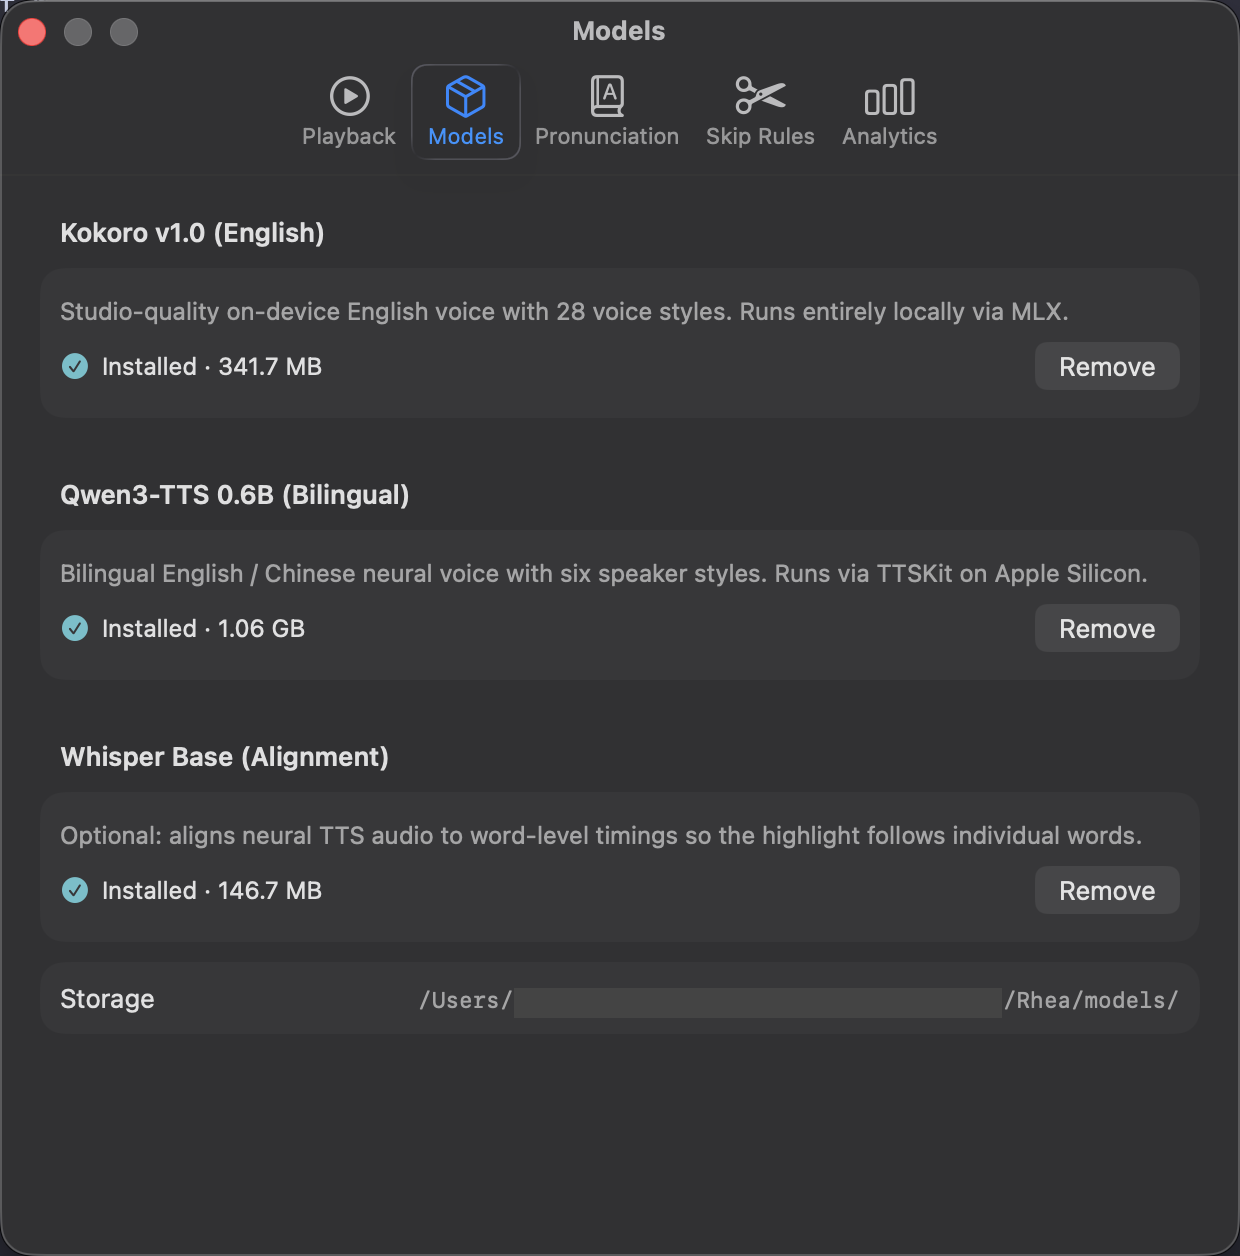
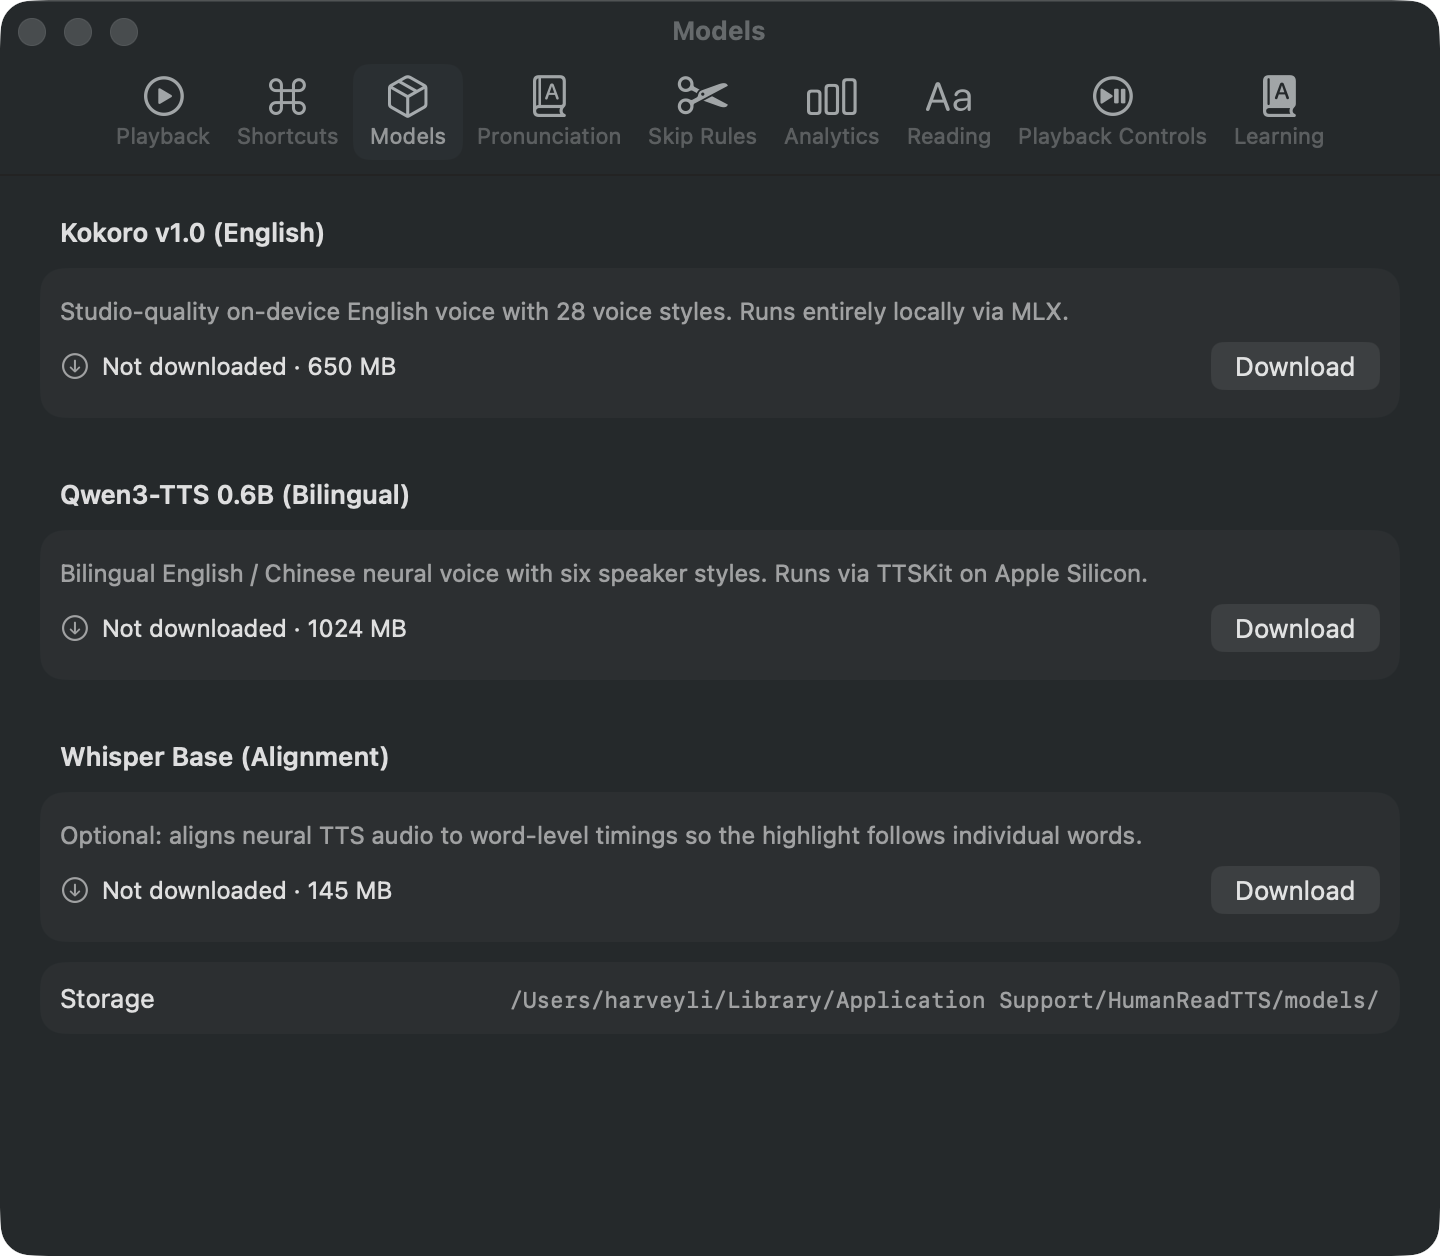
docs: replace the capture slots with real screenshots
Screenshots taken from a local build of the v0.7.2 tag, so they show the
current name and the full nine-tab settings surface. Seventeen figures in
the manual and five on the landing page; the previous assets were from
April, showed the pre-rename name, six settings tabs, and in one case the
read-screenshot item that f4c914b deleted.

Corrects the install step. The DMG contains only the app, with no
Applications symlink, so "drag it onto the Applications folder shown next
to it" described something that is not there. Adding the symlink in
Scripts/package.sh would make the shorter instruction true and is worth
doing separately.

Four slots stay open: the Gatekeeper first-launch dialog (one-time, and
already consumed on this machine), the translation popover, the menu-bar
dropdown, and image OCR. The OCR capture worked but recognised the
monospace sample badly enough to misrepresent the feature, so it is left
out until there is a realistic scanned page to use.

Captures used a fresh app.humanreadtts.mac defaults domain, so the
document list shows only neutral sample files.

diff --git a/docs/manual/index.html b/docs/manual/index.html
@@ -429,17 +429,17 @@
       <div class="step">
         <div class="step-num">2</div>
         <div class="step-body">
-          <div class="step-title">Open it and drag the app across</div>
+          <div class="step-title">Open it and move the app to Applications</div>
           <p>
             Double-click the downloaded <code>.dmg</code> file. A window opens
-            showing the HumanReadTTS icon next to a shortcut to your Applications
-            folder. Drag the icon onto that folder.
+            containing the HumanReadTTS app. Drag it into your
+            <strong>Applications</strong> folder — open a second Finder window
+            and drag it across, or drag it onto Applications in the Finder
+            sidebar.
           </p>
-          <div class="shot-todo">
-            <strong>Screenshot to add</strong>
-            The opened disk image window, showing the HumanReadTTS icon on the
-            left and the Applications folder shortcut on the right, with an
-            arrow between them. Capture at the default window size.
+          <div class="screenshot shot-panel">
+            <img src="assets/install-dmg.png" alt="The mounted disk image window in Finder, containing a single item: the HumanReadTTS application.">
+            <div class="caption">The disk image contains just the app. Drag it to your Applications folder.</div>
           </div>
         </div>
       </div>
@@ -504,11 +504,14 @@
       control you need while listening.
     </p>
 
-    <div class="shot-todo">
-      <strong>Screenshot to add</strong>
-      The full main window with a PDF open: document list on the left, document
-      in the middle, playback bar at the bottom. Use a neutral sample document,
-      not a personal file, because the document list shows file names.
+    <div class="screenshot shot-panel">
+      <img src="assets/welcome-tour.png" alt="The welcome tour window, headed Welcome to HumanReadTTS, listing three points: fully on-device, bilingual English and Chinese, and audiobook export.">
+      <div class="caption">The welcome tour on first launch. Click Skip at any point, or Get Started to step through it.</div>
+    </div>
+
+    <div class="screenshot shot-wide">
+      <img src="assets/main-window.png" alt="The main window with a PDF open: the document list on the left, the document in the middle, and the playback bar along the bottom.">
+      <div class="caption">The main window. Documents you have opened are listed on the left, the current one fills the middle, and the playback bar sits along the bottom.</div>
     </div>
 
     <div class="callout info">
@@ -611,11 +614,9 @@
       <strong>Read from here to end</strong>.
     </p>
 
-    <div class="shot-todo">
-      <strong>Screenshot to add</strong>
-      A paragraph mid-read, showing the amber sentence highlight with the
-      brighter word highlight inside it. Crop to a few lines of text so the two
-      highlight levels are clearly visible.
+    <div class="screenshot shot-wide">
+      <img src="assets/highlight-playing.png" alt="The reader mid-playback: the sentence being read is washed in a lighter band, with the word currently being spoken picked out more brightly inside it.">
+      <div class="caption">Mid-read. The sentence being spoken carries a soft wash, and the exact word is picked out more brightly inside it.</div>
     </div>
 
     <div class="callout tip">
@@ -679,6 +680,11 @@
       the old one.
     </p>
 
+    <div class="screenshot shot-panel">
+      <img src="assets/settings-playback.png" alt="The Playback tab in Settings, where the voice, speed and bilingual auto-switch behaviour are set.">
+      <div class="caption">The Playback tab. Setting the voice to Auto lets the app pick per sentence in a bilingual document.</div>
+    </div>
+
     <div class="callout info">
       <span class="callout-label">Note</span>
       <p>
@@ -698,11 +704,9 @@
       tab. Each voice pack has a Download button and a progress bar.
     </p>
 
-    <div class="shot-todo">
-      <strong>Screenshot to add</strong>
-      The Models tab in Settings, showing the Kokoro and Qwen3-TTS voice packs
-      with their sizes and Download buttons. Include the full row of settings
-      tabs at the top.
+    <div class="screenshot shot-panel">
+      <img src="assets/settings-models.png" alt="The Models tab in Settings, listing the downloadable voice packs with their sizes and download controls.">
+      <div class="caption">The Models tab. Voice packs download once and then work offline.</div>
     </div>
 
     <div class="callout tip">
@@ -738,10 +742,9 @@
       Your corrections apply to every voice and every document from then on.
     </p>
 
-    <div class="shot-todo">
-      <strong>Screenshot to add</strong>
-      The Pronunciation tab in Settings with two or three example entries filled
-      in, showing the written form and the spoken form side by side.
+    <div class="screenshot shot-panel">
+      <img src="assets/settings-pronunciation.png" alt="The Pronunciation tab in Settings, where words are paired with the spelling that should be spoken.">
+      <div class="caption">The Pronunciation tab. Corrections apply to every voice and every document.</div>
     </div>
 
     <!-- 13 -->
@@ -758,10 +761,9 @@
       <li><strong>Highlight colour</strong> — an alternative palette is available that stays distinguishable for the most common forms of colour blindness.</li>
     </ul>
 
-    <div class="shot-todo">
-      <strong>Screenshot to add</strong>
-      The Reading tab in Settings, showing the typeface picker and the spacing
-      sliders with the live preview area below them.
+    <div class="screenshot shot-panel">
+      <img src="assets/settings-reading.png" alt="The Reading tab in Settings: a font picker, sliders for size, line spacing and letter spacing, a leading-bold switch, and a live preview sentence.">
+      <div class="caption">The Reading tab. The preview sentence updates live, so you can judge a change before keeping it.</div>
     </div>
 
     <!-- 14 -->
@@ -780,11 +782,14 @@
       you lose your place easily on dense pages.
     </p>
 
-    <div class="shot-todo">
-      <strong>Screenshot to add</strong>
-      Two images side by side, or one after the other: the same page shown in
-      Sepia and in Night. Use a neutral sample document, because the document
-      list is visible in the frame.
+    <div class="screenshot shot-wide">
+      <img src="assets/reading-theme-sepia.png" alt="The reader with the Sepia surface: a warm, paper-coloured page behind dark text.">
+      <div class="caption">Sepia warms the page for daytime reading.</div>
+    </div>
+
+    <div class="screenshot shot-wide">
+      <img src="assets/reading-theme-night.png" alt="The reader with the Night surface: light text on a dim background.">
+      <div class="caption">Night dims the page for reading in the dark. Both surfaces apply to Markdown and plain text; PDFs keep their own page colour.</div>
     </div>
 
     <!-- 15 -->
@@ -870,8 +875,14 @@
     </p>
     <p>
       You can change that key combination in <strong>Settings</strong> &rarr;
-      <strong>Shortcuts</strong>.
+      <strong>Shortcuts</strong>. The same tab chooses which languages are
+      recognised in images.
     </p>
+
+    <div class="screenshot shot-panel">
+      <img src="assets/settings-shortcuts.png" alt="The Shortcuts tab in Settings, showing the read-selection hotkey, a switch to restore the clipboard afterwards, and the list of image recognition languages.">
+      <div class="caption">The Shortcuts tab. The hotkey is rebindable, and the language list controls text recognition in images.</div>
+    </div>
     <p>
       There is also a menu-bar icon that appears while something is playing,
       giving you play, pause and skip without switching back to the main window.
@@ -903,10 +914,9 @@
       <li><strong>Reading queue</strong> — line up several documents so the next one starts automatically when the current one finishes.</li>
     </ul>
 
-    <div class="shot-todo">
-      <strong>Screenshot to add</strong>
-      The Playback Controls tab in Settings, showing the sleep timer options and
-      the reading queue.
+    <div class="screenshot shot-panel">
+      <img src="assets/settings-playback-controls.png" alt="The Playback Controls tab in Settings, with the sleep timer and reading queue options.">
+      <div class="caption">The Playback Controls tab, holding the sleep timer and the reading queue.</div>
     </div>
 
     <!-- 20 -->
@@ -929,10 +939,9 @@
       on. Changes take effect at the next sentence, without stopping playback.
     </p>
 
-    <div class="shot-todo">
-      <strong>Screenshot to add</strong>
-      The Skip Rules tab in Settings, with the three built-in rules visible and
-      the live preview showing text being removed from a sample sentence.
+    <div class="screenshot shot-panel">
+      <img src="assets/settings-skip-rules.png" alt="The Skip Rules tab in Settings, listing the built-in citation rules with switches and a live preview of what gets removed.">
+      <div class="caption">The Skip Rules tab. The preview shows exactly what a rule removes before you switch it on.</div>
     </div>
 
     <div class="callout tip">
@@ -1001,10 +1010,9 @@
       Finder, and a button to play it.
     </p>
 
-    <div class="shot-todo">
-      <strong>Screenshot to add</strong>
-      The exports list with one finished item and one in progress. Use neutral
-      document names, because the file names are visible.
+    <div class="screenshot shot-panel">
+      <img src="assets/exports-queue.png" alt="The Exports window, which lists each audio export with its own progress and buttons to reveal or play the finished file.">
+      <div class="caption">The Exports window. Each job has its own progress, with buttons to show it in Finder or play it.</div>
     </div>
 
     <!-- 23 -->

diff --git a/index.html b/index.html
@@ -197,11 +197,9 @@
       </div>
     </div>
 
-    <div class="shot-todo">
-      <strong>Screenshot to add</strong>
-      The full app window with a document open and a sentence highlighted
-      mid-read. Use a neutral sample document rather than a personal file,
-      because the document list on the left shows file names.
+    <div class="shot">
+      <img src="docs/manual/assets/highlight-playing.png" alt="The app mid-read: the document list on the left, the document in the middle with the sentence being spoken highlighted, and the playback bar along the bottom.">
+      <div class="cap">Mid-read. The sentence being spoken is highlighted, with the exact word picked out inside it.</div>
     </div>
   </section>
 
@@ -284,6 +282,11 @@
     <div class="shot">
       <img src="docs/manual/assets/settings-learning.png" alt="The Learning settings tab, showing the tap-to-translate switch, the target language, three saved words with translations and example sentences, and an Export to Anki button.">
       <div class="cap">Words you look up are saved with the sentence you found them in, then exported straight into Anki.</div>
+    </div>
+
+    <div class="shot">
+      <img src="docs/manual/assets/reading-theme-sepia.png" alt="The reader showing the Sepia surface: a warm, paper-coloured page behind dark text.">
+      <div class="cap">Sepia and Night surfaces, adjustable spacing and dyslexia-friendly typefaces make long sessions easier on the eyes.</div>
     </div>
   </section>
 
